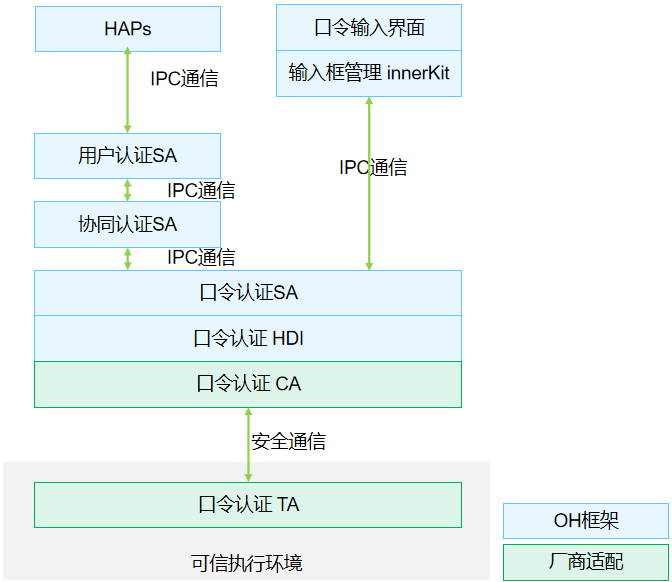
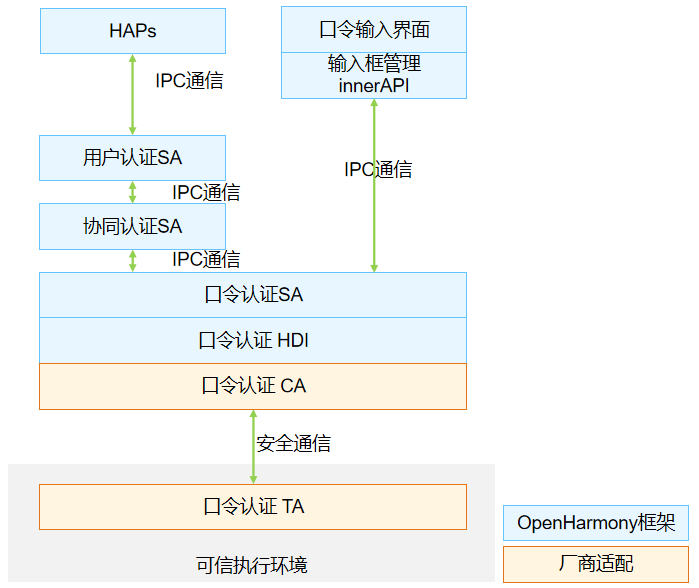
fix bugs.

diff --git a/README_ZH.md b/README_ZH.md
@@ -1,12 +1,7 @@
-# useriam_pinauth
+# 口令认证
 
 - [简介](#简介)
 - [目录](#目录)
-- [编译构建](#编译构建)
-  - [准备](#准备)
-  - [获取源码](#获取源码)
-  - [编译构建](#编译构建)
-
 - [说明](#说明)
   - [接口说明](#接口说明)
   - [使用说明](#使用说明)
@@ -15,7 +10,7 @@
 
 ## 简介
 
-**口令认证（pinauth）**模块支持用户口令的设置，删除和口令认证功能。与用户IAM子系统基础框架配合，也可以支持用户口令修改的功能。
+**口令认证**（pinauth）模块支持用户口令的设置，删除和口令认证功能。与用户IAM子系统基础框架配合，也可以支持用户口令修改的功能。
 
 口令认证作为OpenHarmony最基础的用户身份认证执行器，按照协同认证定义的资源注册接口，将口令认证相关资源信息注册到协同认证框架，并根据协同认证框架的调度，完成口令的设置，删除和口令认证功能。
 
@@ -27,11 +22,11 @@
 
 用户口令是系统内的核心资产，在口令认证的处理过程中，我们对用户输入的口令信息实施了如下安全保护措施：
 
-1. 口令输入界面（当前分为口令设置界面和口令认证界面）由系统级应用提供<sup>注1</sup>，在用户设置过程中涉及的界面均由设置应用提供，在用户锁屏认证过程中的口令输入界面由锁屏应用提供；
-2. 口令数据传输：口令数据原文不跨设备传输，口令输入界面获取用户输入的口令数据原文后，在输入模型管理innerKit内经过单向处理后才传入口令认证SA
+1. 口令输入界面（当前分为口令设置界面和口令认证界面）由系统级应用提供<sup>注1</sup>，在用户设置过程中涉及的界面均由设置应用提供，在用户锁屏认证过程中的口令输入界面由锁屏应用提供。
+2. 口令数据传输：口令数据原文不跨设备传输，口令输入界面获取用户输入的口令数据原文后，在输入模型管理innerAPI内经过单向处理后才传入口令认证SA。
 3. 口令数据安全存储和比对：口令认证HDI中定义了南向厂商适配的接口，南向厂商可以自行在可信执行环境内完成口令数据的安全存储的比对。<sup>注2</sup>
 
-*注1：应用实现口令输入界面，需要通过输入框管理接口，将口令输入界面注册到口令认证SA，输入框管理接口定义较高的访问权限，只允许系统用户调用*
+*注1：应用实现口令输入界面，需要通过输入框管理接口，将口令输入界面注册到口令认证SA，输入框管理接口定义较高的访问权限，只允许系统用户调用。*
 
 *注2：OpenHarmony开源框架内提供了口令认证的纯软件实现，供开发者demo口令认证功能，纯软件实现部分未包含安全存储能力。*
 
@@ -49,29 +44,6 @@
 ├── services			# Service Ability 服务实现
 └── unittest			# 测试代码存入目录
 ```
-
-## 编译构建
-
-
-### 准备
-
-开发者需要在Linux上搭建编译环境：
-
--   [Ubuntu编译环境准备](https://gitee.com/openharmony/docs/blob/master/zh-cn/device-dev/quick-start/quickstart-lite-env-setup-linux.md)
--   Hi3518EV300单板：参考[环境搭建](https://gitee.com/openharmony/docs/blob/master/zh-cn/device-dev/quick-start/quickstart-lite-steps-hi3518-setting.md)
--   Hi3516DV300单板：参考[环境搭建](https://gitee.com/openharmony/docs/blob/master/zh-cn/device-dev/quick-start/quickstart-lite-steps-hi3516-setting.md)
-
-### 获取源码
-
-在Linux服务器上下载并解压一套源代码，源码获取方式参考[源码获取](https://gitee.com/openharmony/docs/blob/master/zh-cn/device-dev/get-code/sourcecode-acquire.md)。
-
-### 编译构建
-
-开发者开发第一个应用程序可参考：
-
--   [helloworld for Hi3518EV300](https://gitee.com/openharmony/docs/blob/master/zh-cn/device-dev/quick-start/quickstart-lite-steps-hi3518-running.md)
-
--   [helloworld for Hi3516DV300](https://gitee.com/openharmony/docs/blob/master/zh-cn/device-dev/quick-start/quickstart-lite-steps-hi3516-running.md)
 
 
 ## 说明
@@ -94,17 +66,17 @@
 
 ### 使用说明
 
-- 需在尽可能安全的环境中实现头文件```hdi\main\pin_entry.h``` 中定义的接口，保证用户口令相关信息的安全保护达到系统内可以提供的最高安全级别（可信执行环境/安全芯片）的保护。
+- 需在尽可能安全的环境中实现头文件```hdi\main\inc\pin_auth.h``` 中定义的接口，保证用户口令相关信息的安全保护达到系统内可以提供的最高安全级别（可信执行环境/安全芯片）的保护。
 
 ## 相关仓
 
-[useriam_coauth](https://gitee.com/openharmony-sig/useriam_coauth)
+[useriam_auth_executor_mgr](https://gitee.com/openharmony-sig/useriam_coauth)
 
-[useriam_useridm](https://gitee.com/openharmony-sig/useriam_useridm)
+[useriam_user_idm](https://gitee.com/openharmony-sig/useriam_useridm)
 
-[useriam_userauth](https://gitee.com/openharmony-sig/useriam_userauth)
+[useriam_user_auth](https://gitee.com/openharmony-sig/useriam_userauth)
 
-**[useriam_pinauth](https://gitee.com/openharmony-sig/useriam_pinauth)**
+**[useriam_pin_auth](https://gitee.com/openharmony-sig/useriam_pinauth)**
 
 [useriam_faceauth](https://gitee.com/openharmony/useriam_faceauth)
 
